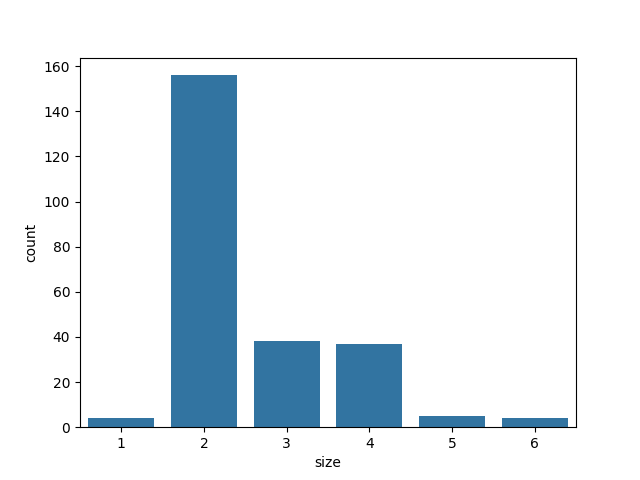
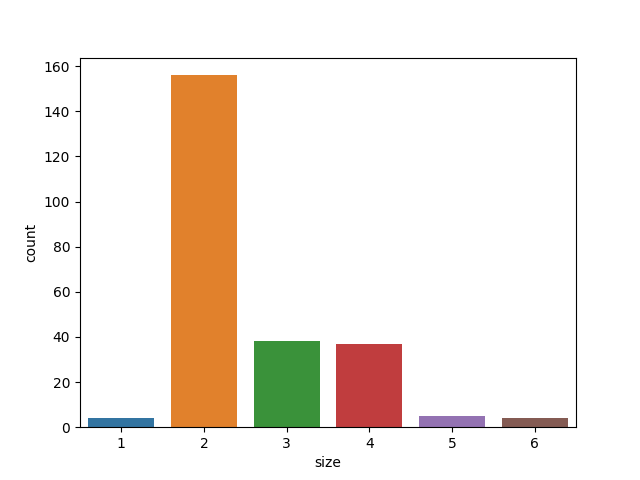
수정

Changed region(s): [[0.25, 0.1562, 0.9062, 0.9062]]

diff --git a/q10.py b/q10.py
@@ -7,7 +7,7 @@ df = sns.load_dataset('tips')
 
 # countplot함수의 출력물을 sns_plot_size으로 저장
 # x축을 "size" 컬럼으로 하여 "size"에 대한 countplot을 그림
-sns_plot_size = sns.countplot(x='size', data=df)
+sns_plot_size = sns.countplot(x='size', data=df, palette='tab10')
 
 # jointplot함수의 출력물을 g로 저장
 # x축은 "total_bill", y축은 "tip", 차트의 종류는 "resid"으로 하여 jointplot을 그림
